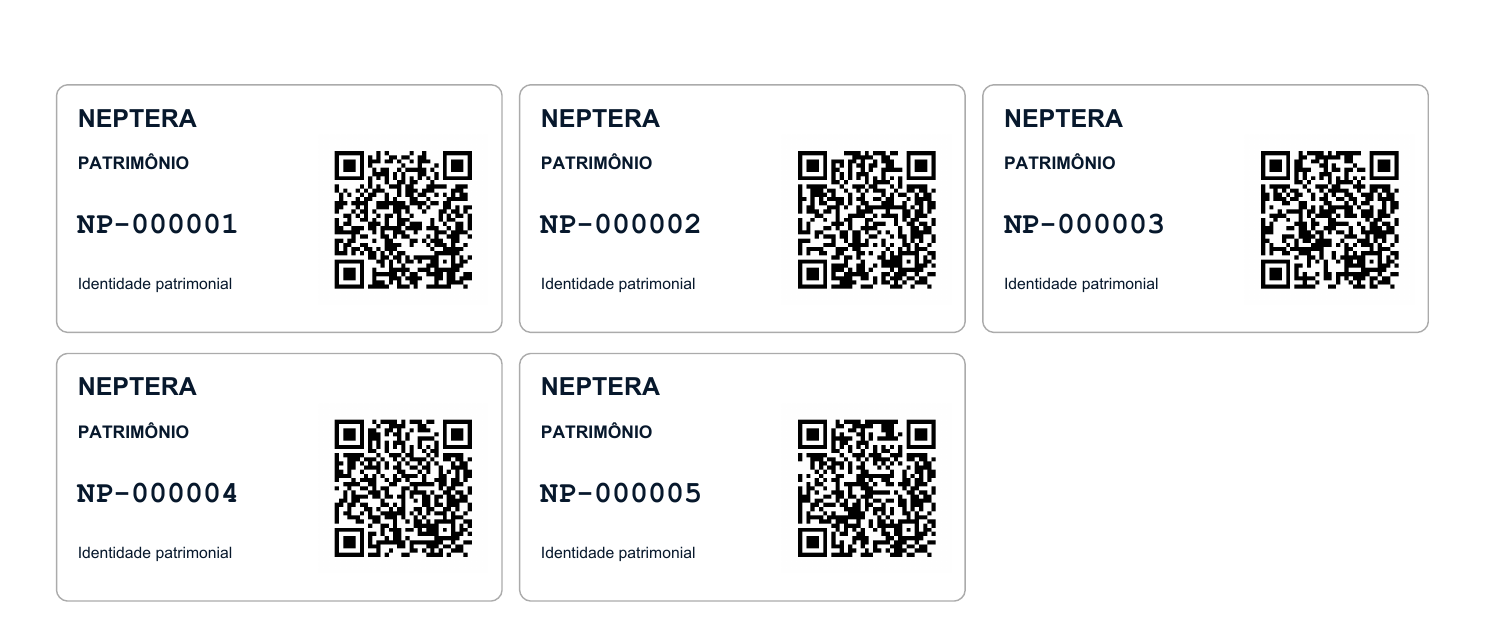
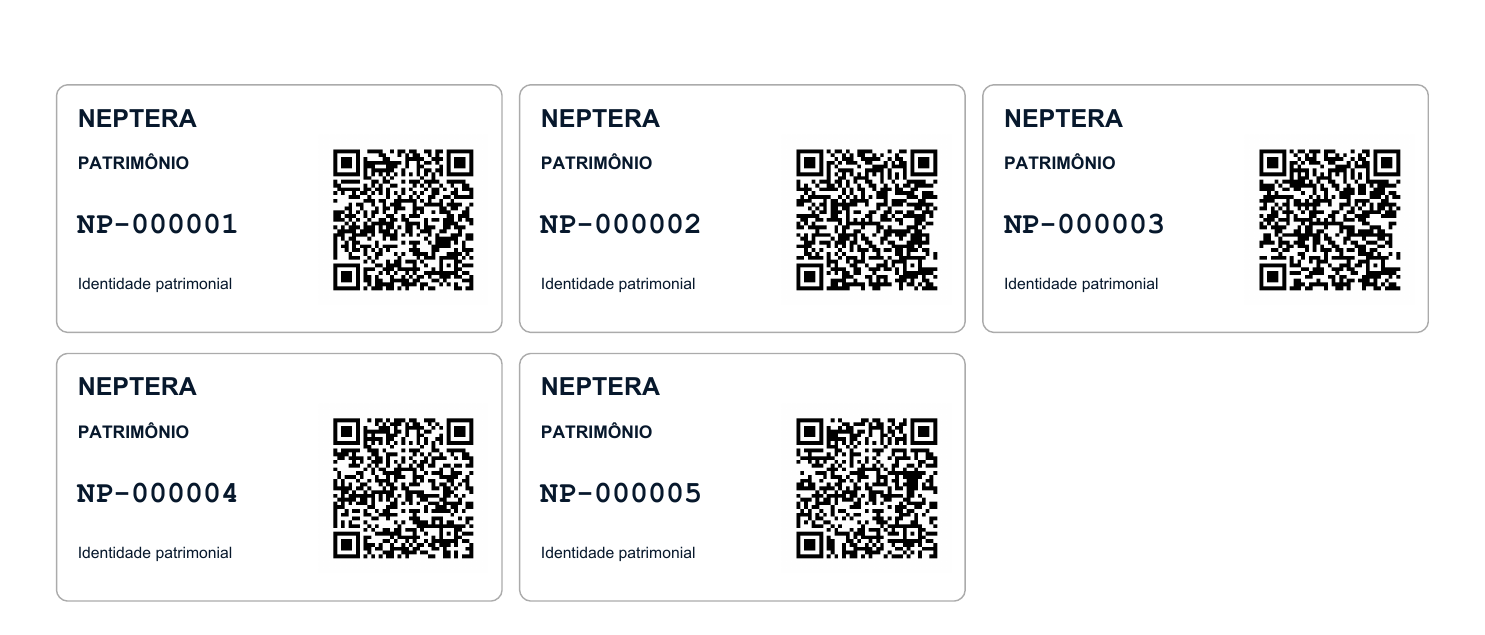
feat: habilita impressao patrimonial com deep link publico

diff --git a/src/patrimonioPrint.test.js b/src/patrimonioPrint.test.js
@@ -1,13 +1,42 @@
 import assert from "node:assert/strict";
 import test from "node:test";
+import { readFileSync } from "node:fs";
 import { isBatchFullyGenerated, persistedBatchLabels, createPersistedBatchPdf, PATRIMONIO_QR_ORIGIN } from "./patrimonioPrint.js";
-import { parsePatrimonioRoute } from "./patrimonioDeepLink.js";
+import { parsePatrimonioRoute, patrimonioViewModel, resolvePatrimonioWithClient } from "./patrimonioDeepLink.js";
 
 const batch = { id: "batch-a", codigo: "PAT-TEST", situacao: "gerado", quantidade: 2, geradas: 2 };
 const records = [
   { lote_origem_id: "batch-a", codigo: "NP-000042", public_id: "abcdefghijklmnopqrstuv" },
   { lote_origem_id: "batch-a", codigo: "NP-000010", public_id: "ABCDEFGHIJKLMNOPQRSTUV" },
 ];
+test("QR piloto usa somente domínio público verificado de produção", () => {
+  assert.equal(PATRIMONIO_QR_ORIGIN, "https://nexstock-delta.vercel.app");
+});
+
+test("cinco destinos auditados sobrevivem à transição de autenticação sem divulgar dados antes do login", async () => {
+  const { records: audited } = JSON.parse(readFileSync(new URL("../qa/patrimonio-piloto/audit.json", import.meta.url))).rows[0];
+  for (const [index, record] of audited.entries()) {
+    const destination = new URL(`/patrimonio/${record.public_id}`, PATRIMONIO_QR_ORIGIN);
+    const route = parsePatrimonioRoute(destination.pathname);
+    const before = patrimonioViewModel({ authenticated: false, route, record });
+    assert.equal(before.kind, "login");
+    assert.equal(before.disclosure, false);
+    assert.equal(before.preserveDestination, true);
+    assert.equal(before.record, undefined);
+    // Simulates the auth state transition; the live resolver is checked separately in READ ONLY SQL.
+    const resolved = await resolvePatrimonioWithClient({ rpc: async (name, args) => {
+      assert.equal(name, "patrimonio_resolver_public_id");
+      assert.equal(args.p_public_id, route.publicId);
+      return { data: [record], error: null };
+    } }, route.publicId);
+    for (const role of ["administrador", "gerente"]) {
+      const after = patrimonioViewModel({ authenticated: true, route, record: resolved, role });
+      assert.equal(after.kind, "resolved");
+      assert.equal(after.record.code, `NP-${String(index + 1).padStart(6, "0")}`);
+      assert.equal(after.record.publicId, route.publicId);
+    }
+  }
+});
 test("impressão exige lote totalmente gerado", () => {
   for (const situacao of ["preparado", "cancelado", "", undefined]) assert.equal(isBatchFullyGenerated({ ...batch, situacao }), false);
   assert.equal(isBatchFullyGenerated({ ...batch, geradas: 1 }), false);

diff --git a/src/patrimonioPrint.js b/src/patrimonioPrint.js
@@ -1,7 +1,8 @@
 import { PATRIMONIO_PUBLIC_ID_PATTERN } from "./patrimonioDeepLink.js";
 
-// Canonical production destination, independent of the local preview's origin.
-export const PATRIMONIO_QR_ORIGIN = "https://neptera.vercel.app";
+// Temporary pilot base: verified public production domain, without Vercel SSO.
+// Independent of preview/deployment URLs. NEPTERA authentication and RLS still apply.
+export const PATRIMONIO_QR_ORIGIN = "https://nexstock-delta.vercel.app";
 
 export function isBatchFullyGenerated(batch) {
   return Boolean(batch?.id && ["gerado", "em_uso", "concluido"].includes(batch.situacao)

diff --git a/qa/patrimonio-piloto/qa-pdf.py b/qa/patrimonio-piloto/qa-pdf.py
@@ -5,7 +5,7 @@ from PIL import Image
 from pypdf import PdfReader
 audit = json.load(open('qa/patrimonio-piloto/audit.json', encoding='utf-8'))['rows'][0]
 actual = sorted(r.text for r in zxingcpp.read_barcodes(Image.open('tmp/pdfs/piloto-preview.png')))
-expected = sorted('https://neptera.vercel.app/patrimonio/' + r['public_id'] for r in audit['records'])
+expected = sorted('https://nexstock-delta.vercel.app/patrimonio/' + r['public_id'] for r in audit['records'])
 assert actual == expected, (actual, expected)
 pdf = PdfReader('output/pdf/NEPTERA_PAT-202609-0001_PILOTO_REAL.pdf')
 assert len(pdf.pages) == 1
@@ -16,4 +16,4 @@ for word in ['NEPTERA', 'PATRIMÔNIO', 'Identidade patrimonial']:
 links = sorted(a.get_object()['/A']['/URI'] for a in pdf.pages[0]['/Annots'])
 assert links == expected
 print('PASS: 5 QR decodificados da página renderizada; 5 links; IDs idênticos ao banco; 5 etiquetas únicas em 1 página A4.')
-print('\n'.join(actual))
+print('Base pública: https://nexstock-delta.vercel.app; identificadores omitidos.')

diff --git a/qa/patrimonio-piloto/README.md b/qa/patrimonio-piloto/README.md
@@ -33,11 +33,45 @@ renderizar o PDF com `pdftoppm -scale-to 2100 -png -singlefile` em
 tmp/pdfs/piloto-preview e executar `python qa/patrimonio-piloto/qa-pdf.py`.
 O ambiente Python precisa de Pillow e pypdf. A dependência temporária foi removida após o QA.
 
-O alias `neptera.vercel.app` foi confirmado na listagem Vercel do projeto. O acesso
-externo sem sessão redireciona ao login Vercel. A resolução completa via navegador
-externo permanece dependente desse acesso; nenhuma configuração de proteção foi alterada.
+## Correção da base pública do QR
+
+Base anterior: `https://neptera.vercel.app`, constante em src/patrimonioPrint.js,
+independente de variável de ambiente, preview ou URL de deployment.
+O projeto tem `ssoProtection.deploymentType = all_except_custom_domains`.
+O alias adicional neptera.vercel.app não consta na lista de domínios de produção;
+os cinco caminhos retornavam HTTP 302 para vercel.com/sso-api.
+
+Base temporária: `https://nexstock-delta.vercel.app`, domínio verificado de produção
+do mesmo projeto, sem gitBranch, sem customEnvironmentId e sem redirect.
+Os cinco caminhos retornam HTTP 200 com título NEPTERA. Todos foram abertos no
+navegador sem sessão e mostraram login NEPTERA, aviso de retorno e URL preservada,
+sem NP ou dados operacionais na tela. Nenhuma proteção ou configuração Vercel mudou.
+
+O login atual usa signInWithPassword e atualiza o estado de autenticação sem navegar
+para outra URL. App mantém rotaPatrimonio e, autenticado, monta PatrimonioDeepLinkPage
+antes do Sistema. Não foi necessário alterar App, autenticação, RLS ou rewrites.
+O retorno foi validado por testes de contrato/transição de autenticação para os cinco
+destinos. Não foi executado login com senha real no navegador.
+O resolvedor de produção foi validado para os cinco códigos no contexto de gerente
+em transação READ ONLY seguida de ROLLBACK: código/ID corretos, estado disponível,
+equipamento nulo e lote oculto. Sem autenticação, o resolvedor retornou zero resultados.
+
+PDF regenerado no mesmo caminho, preservando layout, NPs e public_ids. ZXing leu os
+cinco QRs do PDF renderizado e confirmou a nova base; os cinco links PDF coincidem.
+Hash de códigos/IDs/lote do banco coincide com o snapshot aprovado.
+Consulta final: 5 disponíveis, 0 vinculadas, 0 aplicadas, 0 conferidas, 0 impressões,
+0 eventos de impressão e patrimonio_np_seq.last_value = 5.
+
+Testes relevantes de deep link/autenticação, Patrimônio e QR/PDF passaram.
+Lint, build e git diff --check passaram. Nenhum teste de despesas foi executado.
+
+Classificação: READY para a correção local de base pública. O novo PDF usa um endereço
+já acessível em produção; ele não depende de deploy. Para o gerador da aplicação
+adotar a base temporária, publicar futuramente o frontend com src/patrimonioPrint.js
+atualizado, incluindo a implementação de impressão local ainda não publicada.
+Não há alteração de variáveis de ambiente, domínio, Deployment Protection ou banco.
 
 Prévia DEV sem acesso ao banco: `/patrimonio-real-preview.html?cenario=piloto&tema=claro`.
 Ela usa exclusivamente o snapshot auditado. A tela operacional continua usando loadData real.
 
-Sem push, deploy ou registro de impressão. Aguardando aprovação do PDF pelo Anderson.
+Sem push, deploy ou registro de impressão. Parado após entregar a correção local.
